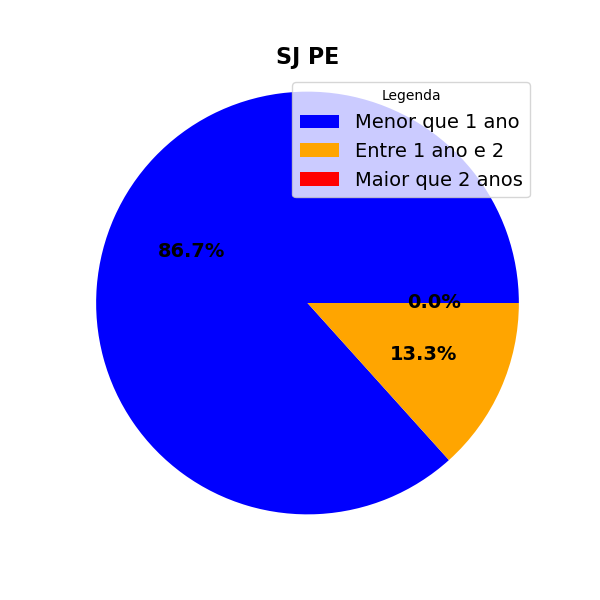
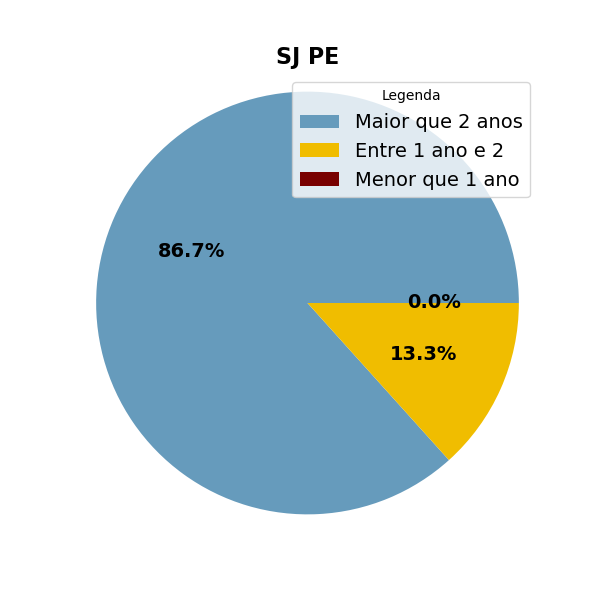
feat: cores do gráfico

diff --git a/gerarGrafico.py b/gerarGrafico.py
@@ -5,9 +5,9 @@ import pandas as pd
 dataframe = pd.read_csv('prescricao_resumo.csv')
 
 # Definindo as cores padrão para cada categoria
-cores = ['blue', 'orange', 'red']
+cores = ['#669BBC', '#f0bd00', '#780000']
 
-labels = ['Menor que 1 ano', 'Entre 1 ano e 2', 'Maior que 2 anos']
+labels = ['Maior que 2 anos', 'Entre 1 ano e 2', 'Menor que 1 ano']
 
 for i in range(len(dataframe)):
     y = np.array(dataframe.iloc[i].iloc[-3:].tolist())
